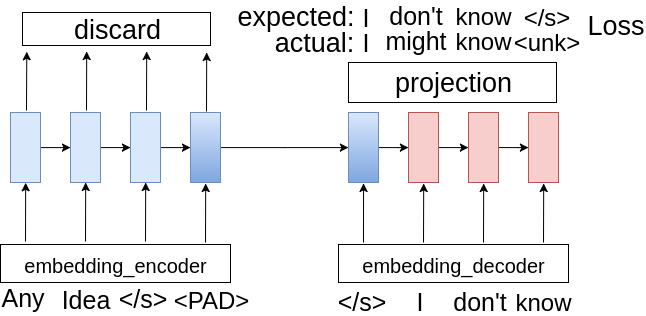
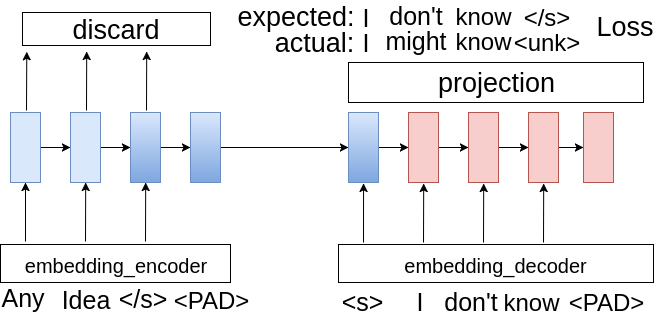
[doc][report] Add I don't know part to dataset sec
- #20
- older version keeps idk in text, newer version already removed it,
but the model is saved so we don't need to train it for 1h ...

diff --git a/doc/report/report.tex b/doc/report/report.tex
@@ -21,7 +21,9 @@
 \usepackage{fontspec}
 \newfontfamily\cjkfont{Noto Sans CJK SC}
 
-\title{Snowbot: An empirical study of building chatbot using seq2seq with different framework}
+\usepackage{listings}
+
+\title{Snowbot: An empirical study of building chatbot using seq2seq model with different machine learning framework}
 
 \author{
 Pinglei Guo \\
@@ -45,7 +47,7 @@ Weiting Zhan \\
     Chatbot is a growing topic, we built a open domain generative chatbot using seq2seq model with different machine learning framework (Tensorflow, MXNet).
     Our result show although seq2seq is a successful method in neural machine translation, use it solely on single turn chatbot yield pretty unsatisfactory result.
     Also existing free dialog corpus lacks both quality and quantity.
-    Our conclusion is state of art technology can't build a useful open domain generative bot.
+    Our conclusion it's hard to build a useful open domain generative bot using state of art technology.
 \end{abstract}
 
 \section{Introduction}
@@ -102,11 +104,12 @@ Section~\ref{sec:conclusion} concludes the report.
 
 We use seq2seq model, which is widely used in neural machine translation~\cite{sutskever2014sequence}
 and can be applied to single turn dialog system (QA) as well.
-Its basic structure is a recurrent neural network (RNN) and treat sentence as a sequence of words, and feed one word at each step.
-The cell used in RNN is LSTM (long term short memory) to learn implicit relation ship between words
-from data without explicit pre-processing.
+Its basic structure is two recurrent neural networks (RNN) as shown in figure~\ref{fig:seq2seq}.
+The cell used in RNN is LSTM (long term short memory),
+so we can learn implicit relation ship between words from data without explicit pre-processing.
 seq2seq is one of many variants of RNN + LSTM. Based on the domain and length of input,
-RNN + LSTM can be used for sequence classification, text generation, translation, dialog system etc. as shown in table~\ref{table:RNN+LSTM}
+RNN + LSTM can be used for sequence classification, text generation, translation, dialog system etc.
+as shown in table~\ref{table:RNN+LSTM}
 
 \begin{table}[h]
     \caption{Variants of RNN + LSTM}
@@ -126,7 +129,7 @@ RNN + LSTM can be used for sequence classification, text generation, translation
 \end{table}
 
 For many to many in RNN + LSTM (seq2seq), simply swap the input and output data, you get a different application for free
-(Table \ref{table:seq2seq-app}).
+(Table~\ref{table:seq2seq-app}) \footnote{not real data, for demonstration only}.
 So we can use neural machine translation framework directly to build our chatbot.
 
 \begin{table}[h]
@@ -148,22 +151,62 @@ So we can use neural machine translation framework directly to build our chatbot
 \begin{figure}[h]
     \centering
     \includegraphics[width=\columnwidth]{seq2seq-simple}
-    \caption{Sample figure caption.}
+    \caption{Sequence to Sequence model for single turn Dialog}
+    \label{fig:seq2seq}
 \end{figure}
 
-% TODO: graph, and example text for test and train
-% TODO: difference between test and train
+From figure~\ref{fig:seq2seq} we can see the main idea of seq2seq is to encode input words sequence into a vector,
+and decode this vector until reaches max step or EOS (\verb+</s>+).
+On the encoder side, the output and hidden state are all discarded except the last hidden state,
+which certainly lose some important information, and leads to optimization like attention~\cite{luong2015effective}.
+
+On the decoder side, train and test (infer) is different.
+The first word is \verb+<s>+ instead of real word in both case, but in training, the word feed into each step is from
+original data while in testing, the word feed into each step is based on the output of previous step.
+The output from projection layer (after softmax) is a vector indicating probability of each word in vocabulary.
+In training, we calculate loss use cross entropy, note that due to the length of sequences in a mini batch may not be the same,
+we use padding (\verb+<PAD>+) to form a matrix and we need to mask those padded part out when calculating loss.
+In test, we can pick the word with max probability as word for this step, this is the greedy way,
+but we may not pick the overall best sentence if we consider each word independently.
+A better way is to use Beam Search, which is keep top-K words in each step, and take the path of top-1 as the final output.
+
+In sockeye and OpenNMT-tf, both attention and beam search are enabled by default, also there can be more than one layer LSTM
+or combination of cells (bi-direction), in original NMT paper they say feed input in reverse order increase performance~\cite{sutskever2014sequence},
+and with bi-direction, a sentence is feed into encoder in two directions.
 
 \section{Dataset}
 \label{sec:dataset}
 
-Cornell Movie Dialog Corpus~\cite{data:cornell}
+We use Cornell Movie Dialog Corpus~\cite{data:cornell} because it is used by many publication and blog posts for single turn dialog system.
+It contains 83097 conversations, and can be converted to 221282 single turn QA.
 
-\paragraph{Paragraphs}
+\subsection{Handling I don't know}
+\label{subsec:idk}
 
-There is also a \verb+\paragraph+ command available, which sets the
-heading in bold, flush left, and inline with the text, with the
-heading followed by 1\,em of space.
+Our first run using sockeye shows \verb+I don't know+ is the most popular response,
+which leads to a very simple questions. How many \verb+I don't know+ do we have in training data,
+does the bot learn to know what it really knows, or there are just too many \verb+I don't know+ in training data.
+
+Q: hi \\
+A: I don't want to talk to you. \\
+Q: do you know \\
+A: I don't know. \\
+Q: you know what \\
+A: I don't know. \\
+Q: oh say something other than I don't know \\
+A: What are you talking about? \\
+Q: so this is all you got \\
+A: I don't want to talk about it. \\
+Q: do you like cat \\
+A: I don't know. \\
+Q: what do you know \\
+A: I don't know. \\
+Q: where can I find the park \\
+A: I don't know. \\
+
+So we add counting and removing \verb+I don't know+ when processing text.
+The result in 221282 QA there are 5114 response is just \verb+I don't know+, which is 2.3\%., excluding those with \verb+I don't know+ as prefix.
+Considering the corpus is from movie with varies backgrounds, 2.3\% is a relative high percentile.
 
 \section{Implementation}
 \label{sec:implementation}

diff --git a/doc/report/format_dialog.py b/doc/report/format_dialog.py
@@ -1,0 +1,25 @@
+def main():
+    with open('dialogs.txt', 'r') as f:
+        start = False
+        count = 0
+        for l in f:
+            l = l.rstrip()
+            if l[0] == '#':
+                pass
+            elif l.startswith('@start'):
+                start = True
+                count = 0
+            elif l.startswith('@end'):
+                start = False
+            elif start:
+                if count % 2 == 0:
+                    print('Q:', l, '\\\\')
+                else:
+                    print('A:', l, '\\\\')
+                count += 1
+            else:
+                print('unknown', l)
+
+
+if __name__ == '__main__':
+    main()
